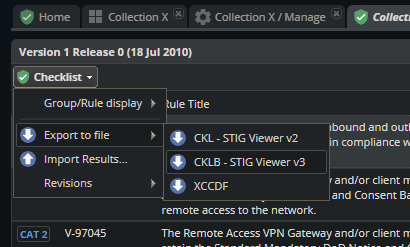
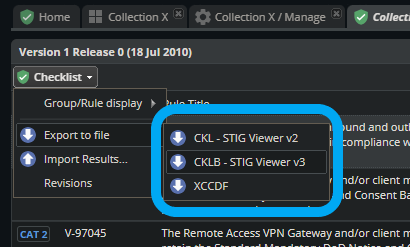
added .cklb handling to checklists endpoint, basic tests, basic schema in OAS, updated whatsnew pics and text

Changed region(s): [[0.3512, 0.3968, 0.8488, 0.8785]]

diff --git a/api/source/controllers/Asset.js b/api/source/controllers/Asset.js
@@ -332,6 +332,7 @@ module.exports.getChecklistByAsset = async function getChecklistByAssetStig (req
   try {
     const assetId = req.params.assetId
     let requestedBenchmarkIds = req.query.benchmarkId
+    const format = req.query.format //default of .ckl provided by EOV
 
     // If this user has no grants permitting access to the asset, the response will be undefined
     const assetResponse = await Asset.getAsset(assetId, ['stigs'], false, req.userObject )
@@ -352,21 +353,27 @@ module.exports.getChecklistByAsset = async function getChecklistByAssetStig (req
 
     const stigs = requestedBenchmarkIds.map( benchmarkId => ({benchmarkId, revisionStr: 'latest'}) )
 
-    const cklObject = await Asset.getChecklistByAsset(assetId, stigs, 'ckl', false, req.userObject )
-    const builder = new XMLBuilder({
-      attributeNamePrefix : "@_",
-      textNodeName : "#text",
-      ignoreAttributes : true,
-      format: true,
-      indentBy: "  ",
-      supressEmptyNode: false,
-      processEntities: false,
-      tagValueProcessor: escapeForXml,
-      attrValueProcessor: escapeForXml
-    })
-    let xml = `<?xml version="1.0" encoding="UTF-8"?>\n<!-- STIG Manager ${config.version} -->\n`
-    xml += builder.build(cklObject.xmlJs)
-    writer.writeInlineFile(res, xml, `${cklObject.assetName}.ckl`, 'application/xml')
+    const response = await Asset.getChecklistByAsset(assetId, stigs, format, false, req.userObject )
+
+    if (format === 'cklb') {
+      writer.writeInlineFile(res, JSON.stringify(response.cklb), `${response.assetName}.cklb`, 'application/json') 
+    }
+    else if (format === 'ckl') {
+      const builder = new XMLBuilder({
+        attributeNamePrefix : "@_",
+        textNodeName : "#text",
+        ignoreAttributes : true,
+        format: true,
+        indentBy: "  ",
+        supressEmptyNode: false,
+        processEntities: false,
+        tagValueProcessor: escapeForXml,
+        attrValueProcessor: escapeForXml
+      })
+      let xml = `<?xml version="1.0" encoding="UTF-8"?>\n<!-- STIG Manager ${config.version} -->\n`
+      xml += builder.build(response.xmlJs)
+      writer.writeInlineFile(res, xml, `${response.assetName}.ckl`, 'application/xml')
+    }
   }
   catch (err) {
     next(err)

diff --git a/client/src/js/SM/WhatsNew.js b/client/src/js/SM/WhatsNew.js
@@ -9,7 +9,7 @@ SM.WhatsNew.Sources = [
     STIG Manager can now import and export data using the new .cklb file format introduced by DISA with the release of STIG Viewer 3. 
     </p>
 
-    <p><b>Note:</b><b> .CKLB is a new format and may be subject to change. </b></p>
+    <p><b>Note:</b><b>.CKLB is a new format and may be subject to change without notice! </b></p>
 
     <p><img src="img/whatsnew/2023-08-20-cklb-export.png"/></p>
 
